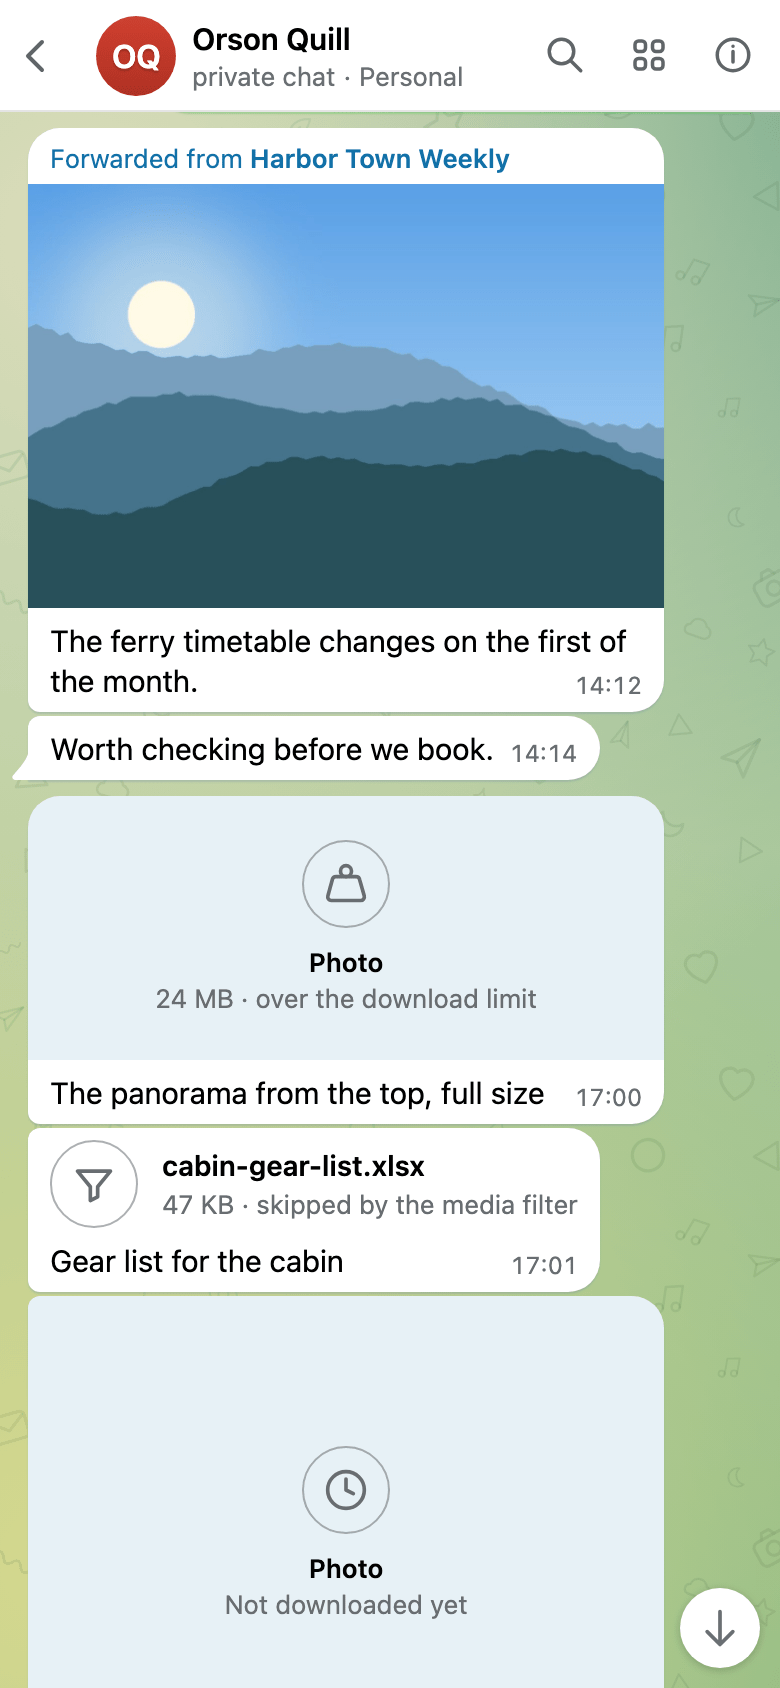
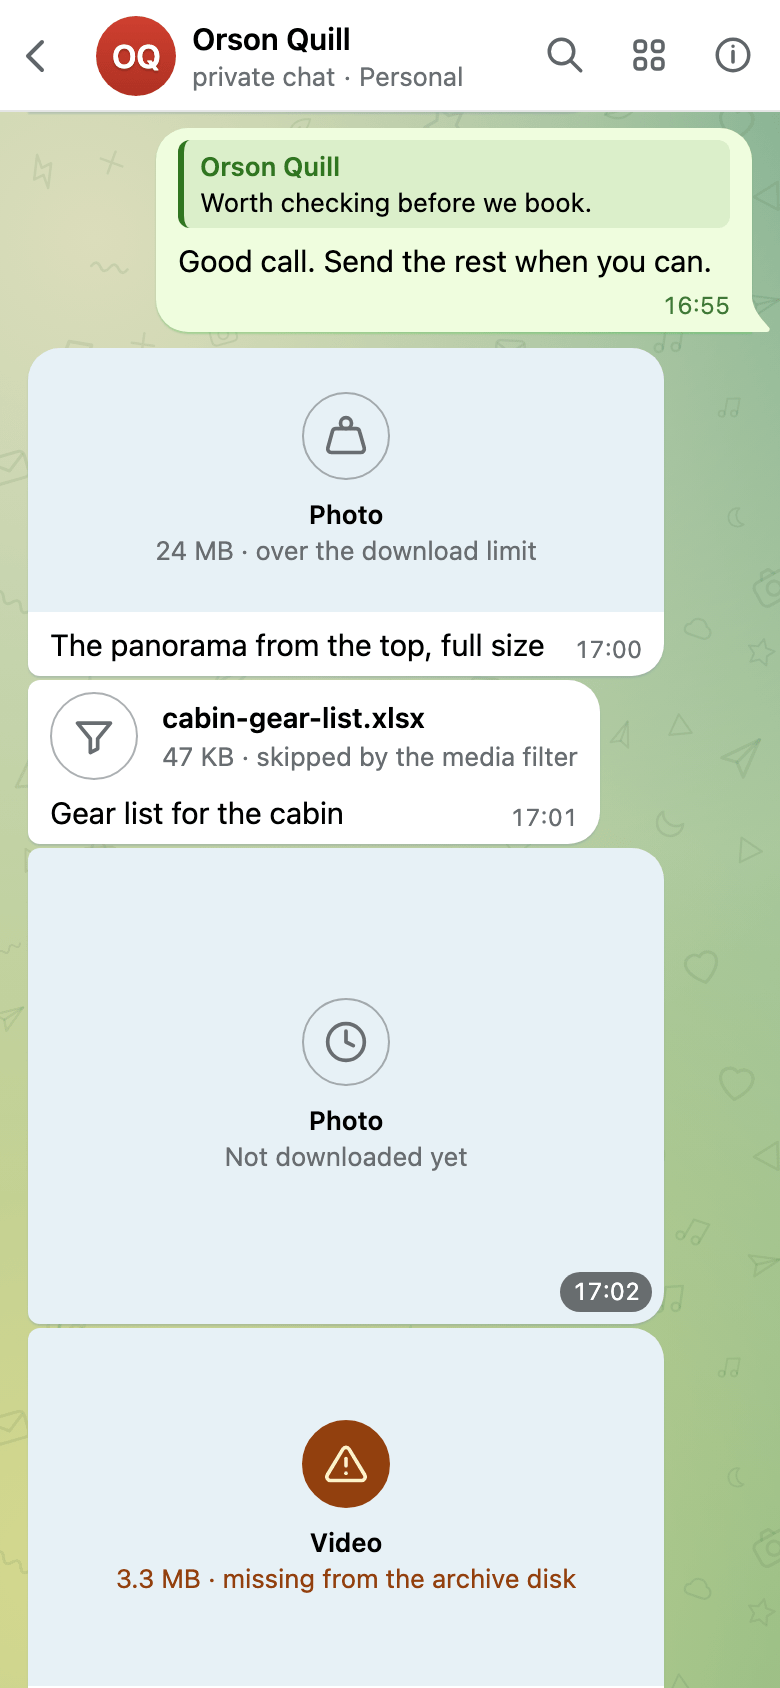
docs(viewer): show all four missing-media reasons in the screenshots

diff --git a/scripts/generate_dummy_db.py b/scripts/generate_dummy_db.py
@@ -635,11 +635,12 @@ def build(now: datetime) -> tuple[list[dict], list[ChatScript], list[dict]]:
         forward=(HARBOR, 3015, "Harbor Town Weekly"),
         media={"type": "photo", "seed": 31},
     )
-    s.add(t + timedelta(minutes=14), ORSON, "Worth checking before we book.")
+    q = s.add(t + timedelta(minutes=14), ORSON, "Worth checking before we book.")
     # Media the viewer cannot show, one of each reason: too large for the
     # download limit, filtered out, not downloaded yet, and a file the row
     # claims that is missing from the disk.
     later = t + timedelta(hours=3)
+    s.add(later - timedelta(minutes=5), OWNER_PERSONAL, "Good call. Send the rest when you can.", reply=q)
     s.add(
         later,
         ORSON,
